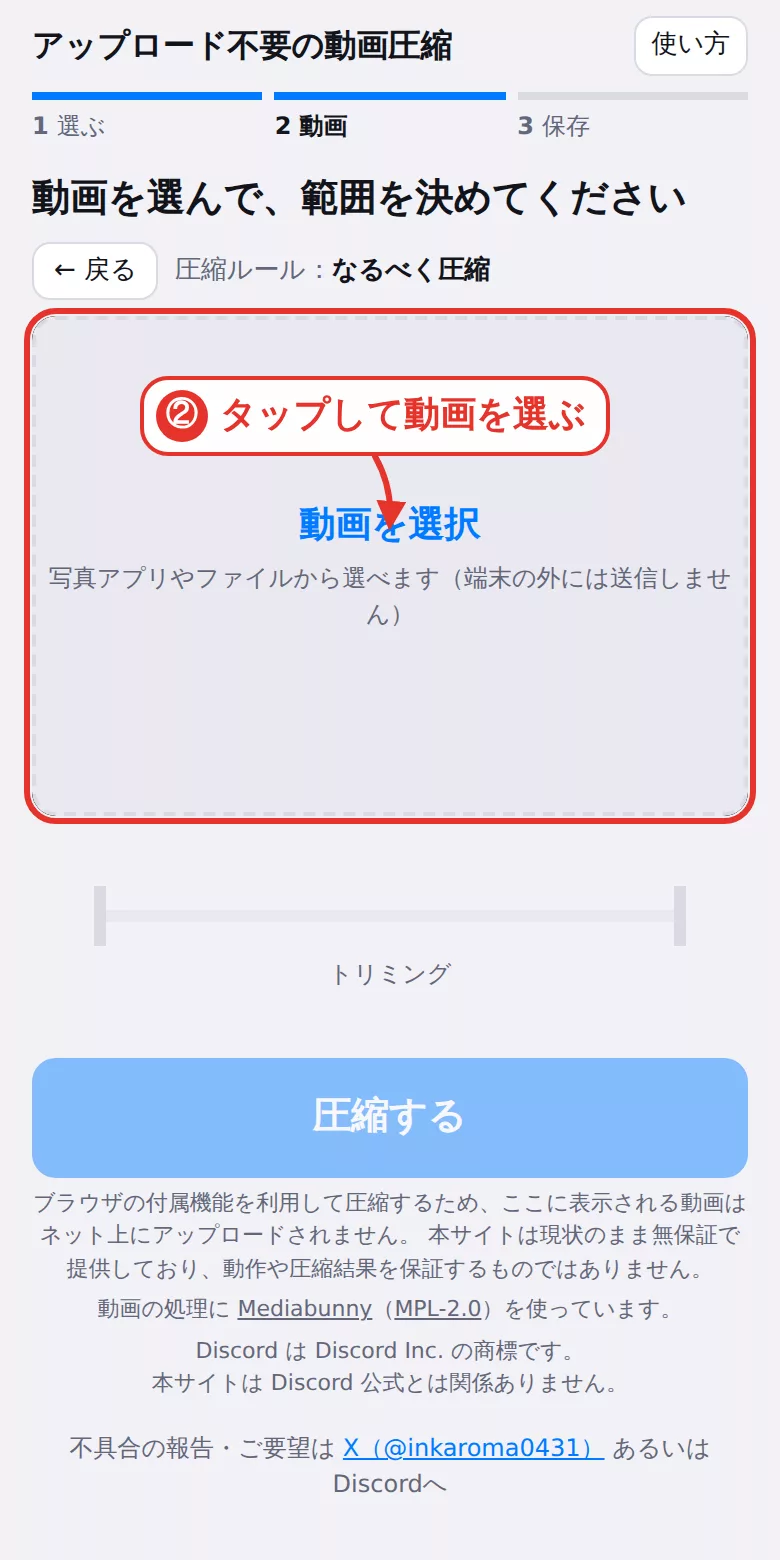
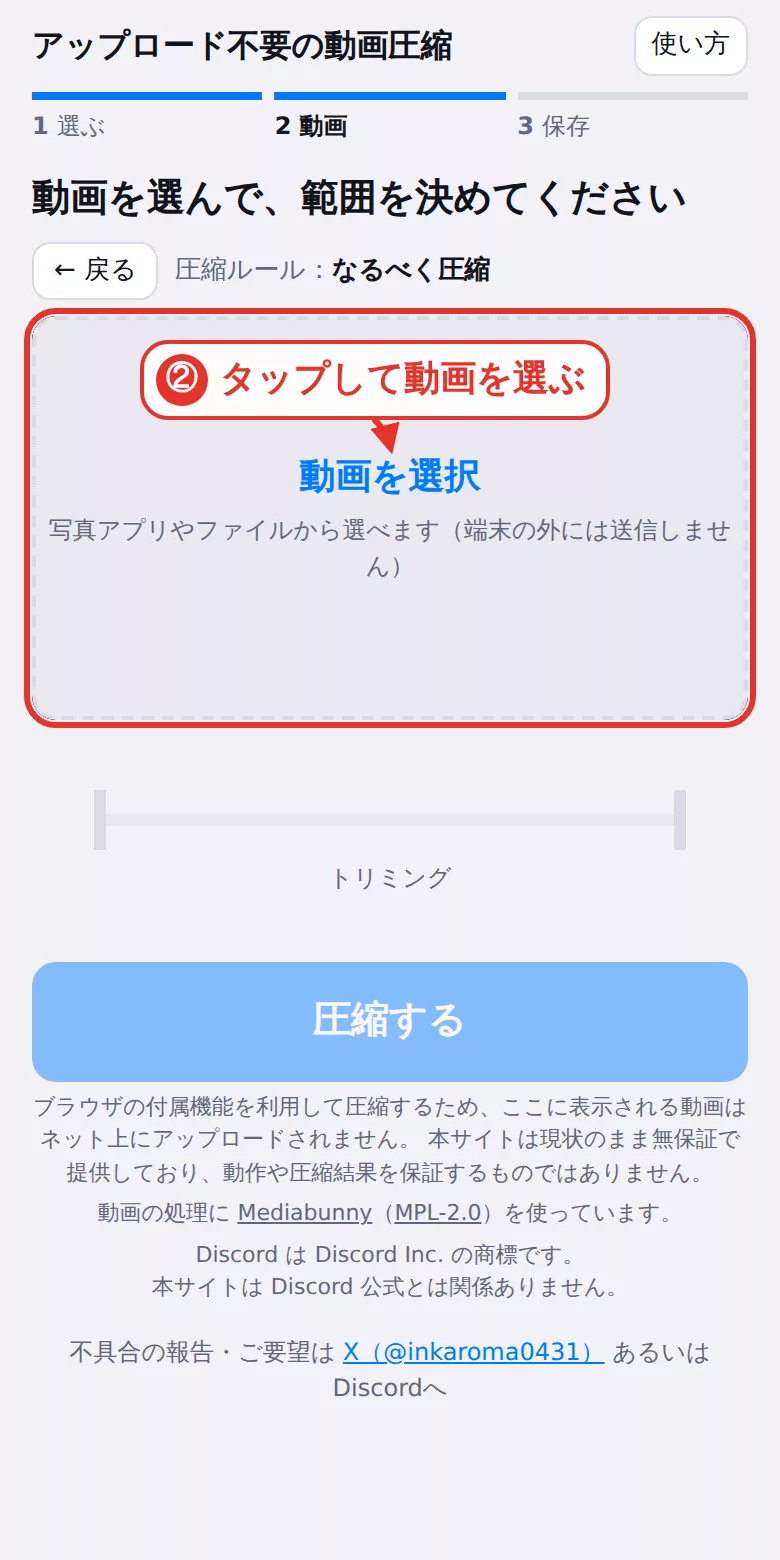
3-step page: fix the video box to 16:9
The box was 100% wide and 32svh tall, so its shape followed the height
Safari reported. Opened from a shortcut, Safari reported a taller
viewport and 16:9 videos got black bars above and below. The box is now
always 16:9. Help step-2 image regenerated (note moved up to fit).

Claude-Session: https://claude.ai/code/session_01Kjx2uZRnB9w1XNEyRL87P8

diff --git a/public/js/constants.js b/public/js/constants.js
@@ -44,7 +44,7 @@ export var MIN_SHRINK = 0.03;
 export var KEYFRAME_INTERVAL = 2;             // 秒
 export var MIN_TRIM_LENGTH = 0.5;             // 秒
 export var AUDIO_DECODE_MAX_BYTES = 400 * MB;   // 互換モードで音声を扱うファイルサイズの上限
-export var APP_VERSION = '2026-10-07d';        // 診断情報に出す（どの版で起きたかを見分ける）
+export var APP_VERSION = '2026-10-07e';        // 診断情報に出す（どの版で起きたかを見分ける）
 export var CANCELLED = 'cancelled';
 export var SNAPSHOT_MAX_BYTES = 600 * MB;     // Android で動画をブラウザ内に写し取る上限（これより大きい動画は写さない）
 export var STALLED = 'stalled';

diff --git a/public/style.css b/public/style.css
@@ -1007,13 +1007,14 @@ a.btn {
 .easy-mode > .btn {
   flex: none;
 }
+/* 動画の枠は 16:9 に固定する（画面の高さで決めると、Safari のバーの状態で高さが変わり、16:9 の動画に黒い帯が出ていた） */
 .app.easy-app .media-box.is-large,
 .app.easy-app .media-box.is-small,
 .app.easy-app.is-running .media-box.is-small {
   width: 100%;
-  height: 32vh;
-  height: 32svh;
-  min-height: 180px;
+  height: auto;
+  aspect-ratio: 16 / 9;
+  min-height: 0;
 }
 /* 2. 予想の行（現在の設定・予想の大きさ・収まる秒数）は、ほかの補足より1段大きくする */
 .app.easy-app #planInfo {

diff --git a/tools/make-help-images.js b/tools/make-help-images.js
@@ -138,7 +138,7 @@ async function shootShot(page, name, crop, marks) {
     const pick = await box('#pickBtn');
     await shoot(page, 'step-2', [
       { type: 'frame', sel: '#pickBtn' },
-      { type: 'note', n: '②', text: 'タップして動画を選ぶ', x: 70, y: pick.t + 30, to: [{ x: 195, y: pick.t + (pick.b - pick.t) / 2 - 22 }] }
+      { type: 'note', n: '②', text: 'タップして動画を選ぶ', x: 70, y: pick.t + 12, to: [{ x: 195, y: pick.t + (pick.b - pick.t) / 2 - 36 }] }
     ]);
 
     // 3. 範囲を決めて、圧縮する（実機のスクリーンショット）

diff --git a/public/sw.js b/public/sw.js
@@ -9,7 +9,7 @@
 'use strict';
 
 var CACHE_PREFIX = 'video-compressor-under20mb-';   // このアプリのキャッシュ名の頭（同じドメインの別アプリのキャッシュは消さない）
-var CACHE = CACHE_PREFIX + 'v226';
+var CACHE = CACHE_PREFIX + 'v227';
 var NETWORK_TIMEOUT_MS = 3000;   // ネット優先のとき、ネットの応答をこれだけ待ってからキャッシュを使う
 
 // Cloudflare Pages のプレビュー（<ブランチ名>.<プロジェクト名>.pages.dev）と手元の確認環境だけネット優先にする
